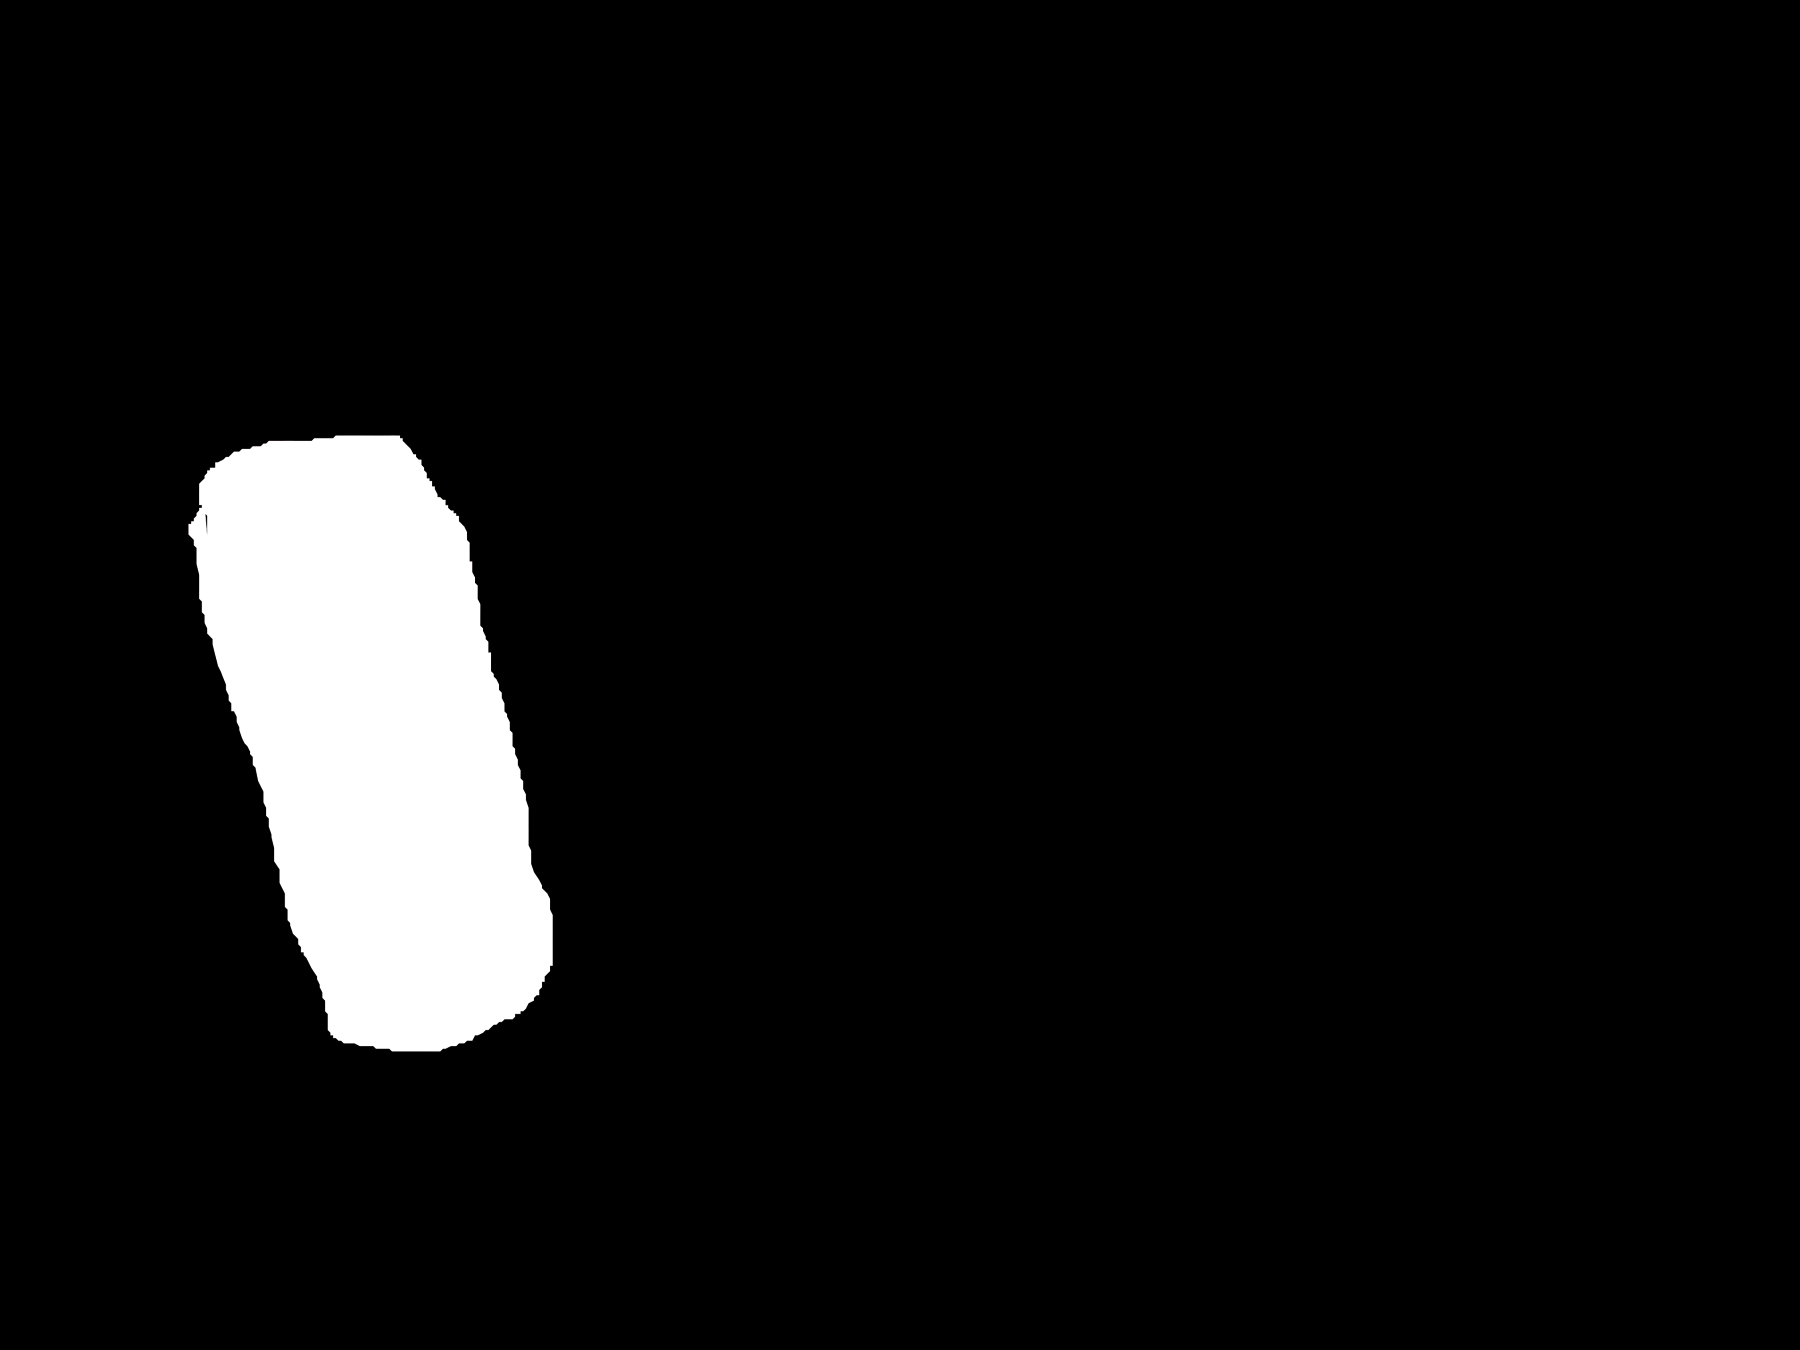
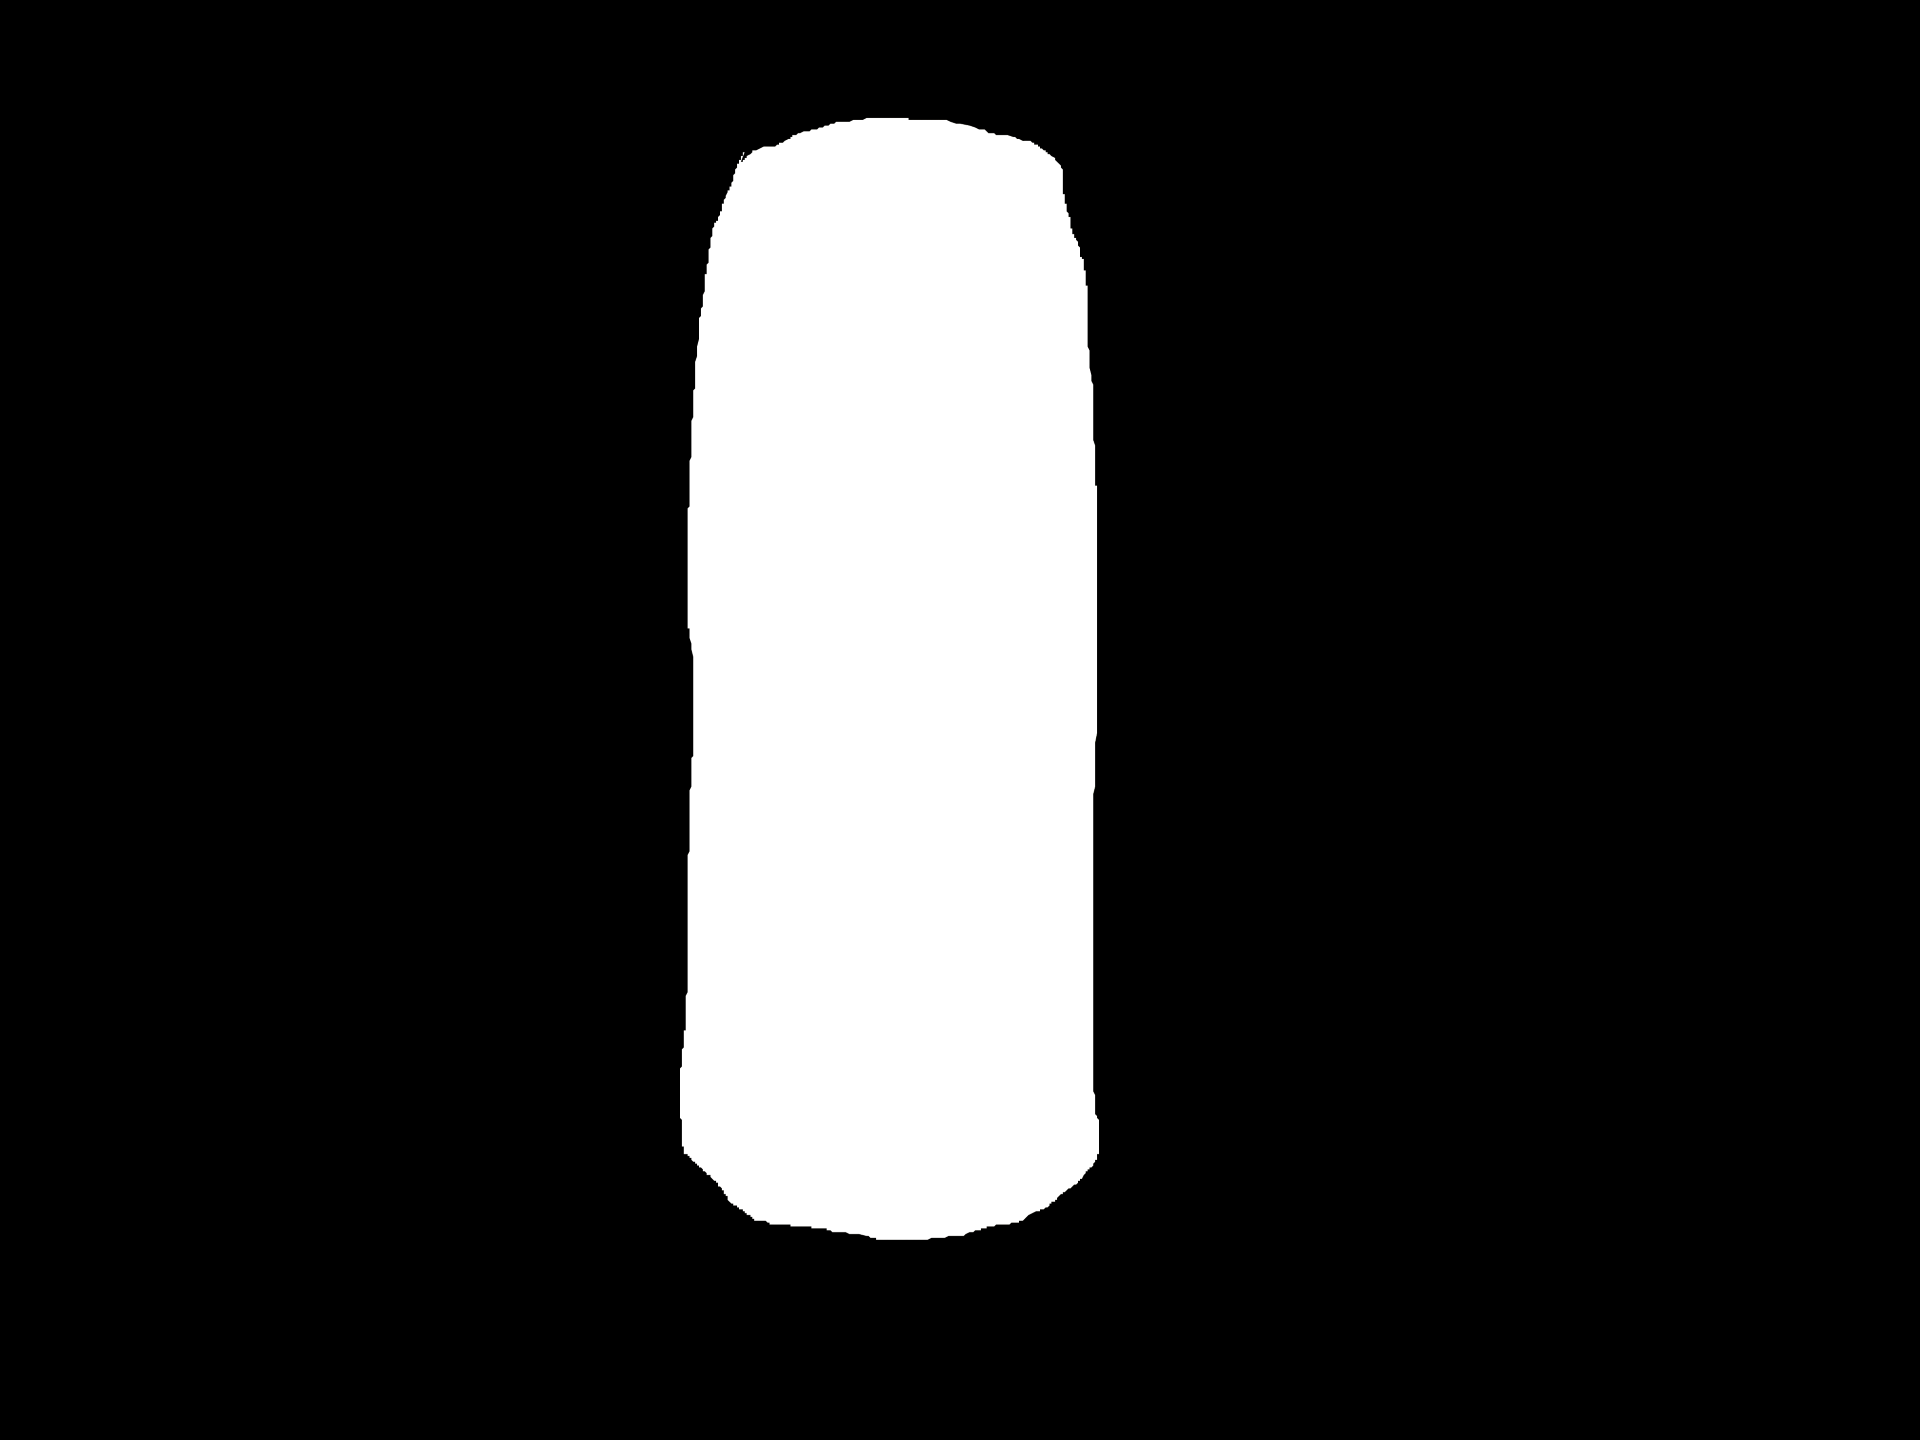
lots of changes to background

Changed region(s): [[0.3422, 0.0622, 0.5911, 0.8711], [0.0933, 0.3111, 0.3111, 0.7778]]

diff --git a/sketch.js b/sketch.js
@@ -3,29 +3,31 @@ let maskImg=null;
 let renderCounter=0;
 
 // change these three lines as appropiate
-let sourceFile = "input_1.jpg";
-let maskFile   = "mask_1.png";
+let sourceFile = "input_2.jpg";
+let maskFile   = "mask_2.png";
 let outputFile = "output_1.png";
 
 function preload() { 
   sourceImg = loadImage(sourceFile); 
   maskImg = loadImage(maskFile); 
+
+    textImg = loadImage("swirl.png");
 }
 
 function setup () {
-  let main_canvas = createCanvas(1920, 1080);
+  let main_canvas = createCanvas(1920, 1440);
   main_canvas.parent('canvasContainer');
 
   imageMode(CENTER);
   noStroke();
-  background(255, 0, 0);
+  background(255);
   sourceImg.loadPixels();
   maskImg.loadPixels();
 }
 
 let X_STOP = 1800;
 let Y_STOP = 1300;
-// let X_STOP = 1920;
+// let X_STOP = 1920; 
 // let Y_STOP = 1080;
 let OFFSET = 15;
 
@@ -33,6 +35,41 @@ let OFFSET = 15;
 
 function draw () {
   
+ 
+  let num_lines_to_draw = 40;
+  // get one scanline
+  for(let j=renderCounter; j<renderCounter+num_lines_to_draw && j<1080; j++) {
+    for(let i=0; i<X_STOP; i++) {
+      colorMode(RGB);
+      let pix = sourceImg.get(i, j);
+      // create a color from the values (always RGB)
+      let col = color(pix);
+      let mask = maskImg.get(i, j);
+      let tex = textImg.get(i, j);
+
+      if(mask[0] < 128) {
+        set(i, j, pix);
+      }
+      else {
+        let new_col = [0, 0, 0, 255];
+        for(let k=0; k<3; k++) {
+          new_col[k] = map(40, 0, 100, pix[k], tex[k]);
+        }
+        // let new_col = color(h, s,  newBrt);
+        set(i, j, new_col);
+      }
+    }
+  
+  renderCounter = renderCounter + num_lines_to_draw;
+  updatePixels();
+
+  // print(renderCounter);
+  if(renderCounter > Y_STOP) {
+    console.log("Done!")
+    noLoop();
+
+    
+
   angleMode(DEGREES);
   let num_lines_to_draw = 40;
   // get one scanline
@@ -49,7 +86,8 @@ function draw () {
         let slip = map(wave, -1, 1, -OFFSET, OFFSET);
         pix = sourceImg.get(i+slip, j);
 
-
+     
+      
   // for(let c=0; c<3; c++) {
        //  pix[c] = brt;
       // }
@@ -59,7 +97,7 @@ function draw () {
     }
 
   
-  }
+        }
   renderCounter = renderCounter + num_lines_to_draw;
   updatePixels();
 
@@ -67,7 +105,10 @@ function draw () {
   if(renderCounter > Y_STOP) {
     console.log("Done!")
     noLoop();
+
+ 
   }
+}
 
 /*
 function draw () {
@@ -102,4 +143,5 @@ function keyTyped() {
   }
 }
   
-}
+      }
+    }
